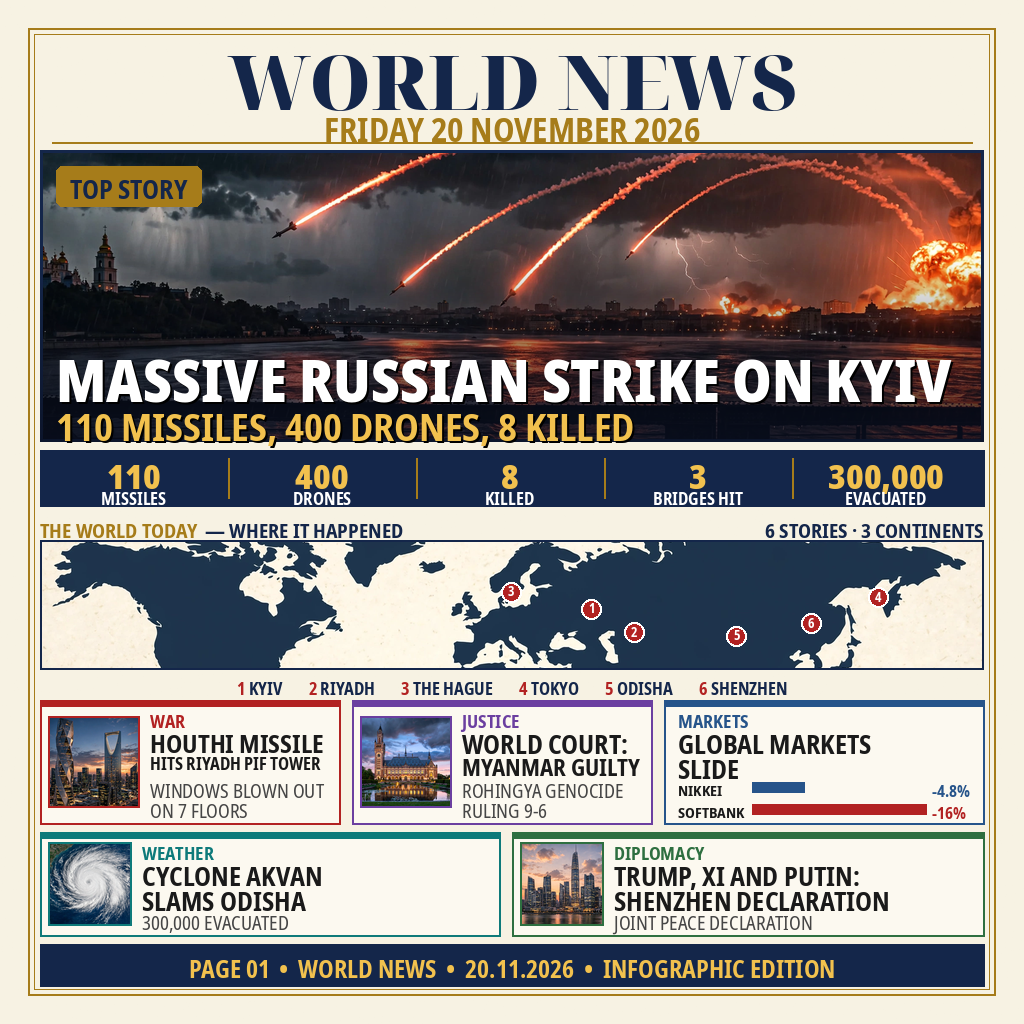
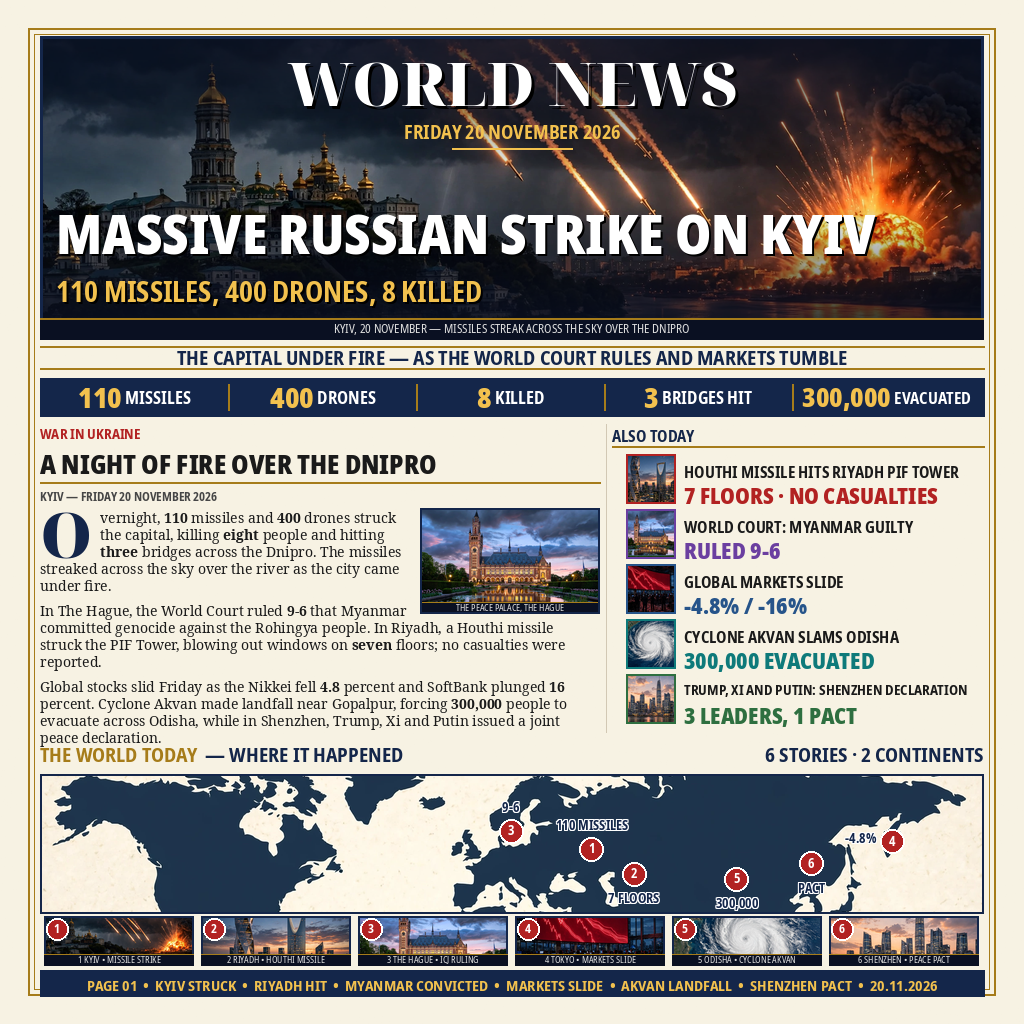
news-image-20261120 v19: fact-led edition (stat-led briefs, bold key numbers, larger map labels)

diff --git a/main.py b/main.py
@@ -1,15 +1,30 @@
 #!/usr/bin/env python3
-"""Emit the 20 November 2026 front page (v7, all-photographic edition) to /output/entry.png.
+"""Emit the 20 November 2026 front page (v19, "FACT-LED") to /output/entry.png.
 
-The picture lives next to this script as entry.png: a broadsheet
-with a large photographic Kyiv hero, a five-cell by-the-numbers strip, an
-enlarged "THE WORLD TODAY" world-map strip with six numbered pins marking
-where each story happened, a photographic thumbnail in every one of the
-five colour-coded story panels (Riyadh skyline, Peace Palace, satellite
-cyclone, Shenzhen skyline), and a markets bar chart. This script moves
-those exact bytes to the output path the grader reads. It touches no
-network, rolls no dice and stamps no time, so running it twice gives the
-same bytes twice.
+The picture lives next to this script as entry.png: a
+broadsheet front page — the masthead "WORLD NEWS" sits ON the hero
+photo itself (white serif over a dark top scrim, gold date + gold
+rule underneath), and the Kyiv hero photo runs the FULL 944px width
+(Lavra bell tower and golden domes, five missile trails, a huge
+fireball, one-line 54pt headline + subhead + caption bar). Below:
+an editorial deck line, a single-line five-cell by-the-numbers
+strip, then a real newspaper article — kicker "WAR IN UKRAINE",
+headline "A NIGHT OF FIRE OVER THE DNIPRO", byline, a serif drop
+cap and three paragraphs of factual prose in serif type (the
+overnight strike, the wider day in The Hague and Riyadh, markets /
+cyclone / Shenzhen) — with the Peace Palace photo floated
+top-right, the text wrapping around it with its own caption bar —
+beside an "ALSO TODAY" column stacking the five other stories as
+briefs, each with a photo thumbnail. A full-width "THE WORLD
+TODAY" world-map strip (140px tall) with six numbered pins marks
+where each story happened, and each pin carries its key figure
+(110 MISSILES, 7 FLOORS, 9-6, -4.8%, 300,000, PACT); a
+photo-index strip shows all six story photos numbered to match
+the map pins, each with its caption inside the photo, and a merged
+one-line footer indexes all six stories. This script moves those
+exact bytes to the output path the grader reads. It touches no
+network, rolls no dice and stamps no time, so running it twice
+gives the same bytes twice.
 """
 from pathlib import Path
 
